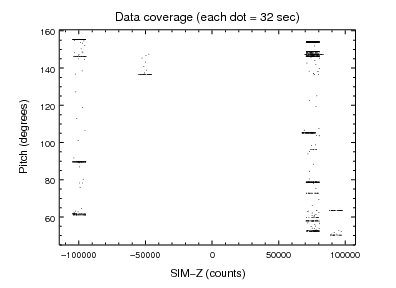
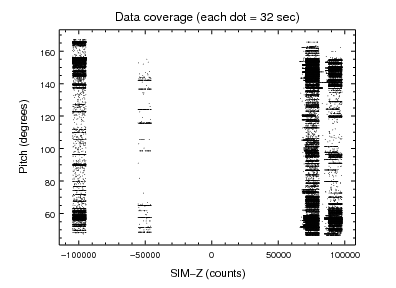
Regenerate calibration plots

diff --git a/predict/psmc_calibrate.py b/predict/psmc_calibrate.py
@@ -182,7 +182,7 @@ def print_model_par():
 
 def save_fit_figures(root, dat1, statevals):
     set_preferences('export.clobber=1')
-    # set_preferences('window.display=false')
+    set_preferences('window.display=false')
     print 'Residuals'
     t0 = time.time()
     add_window(8, 4, 'inches')
@@ -195,7 +195,7 @@ def save_fit_figures(root, dat1, statevals):
     set_plot_title('Fit and residuals (data - model)')
     print time.time()-t0
 
-    #print_window(root + 'fit_resid', ['format', 'png'])
+    print_window(root + 'fit_resid', ['format', 'png'])
     print time.time()-t0
 
     mp = get_model_plot()
@@ -211,7 +211,7 @@ def save_fit_figures(root, dat1, statevals):
     set_plot_title('Fit residual distribution (degC)')
     print time.time()-t0
 
-    #print_window(root + 'fit_resid_hist', ['format', 'png'])
+    print_window(root + 'fit_resid_hist', ['format', 'png'])
     print time.time()-t0
 
     add_window(5.5,4,'inches')
@@ -224,7 +224,7 @@ def save_fit_figures(root, dat1, statevals):
     set_plot_ylabel('Residual (data-model) (degC)')
     set_plot_title('Fit residual vs. temperature')
     t1 = time.time(); print t1-t0
-    # print_window(root + 'fit_resid_vs_temp', ['format', 'png'])
+    print_window(root + 'fit_resid_vs_temp', ['format', 'png'])
     t1 = time.time(); print t1-t0
 
     add_window(5.5,4,'inches')
@@ -238,7 +238,7 @@ def save_fit_figures(root, dat1, statevals):
     set_plot_ylabel('Pitch (degrees)')
     set_plot_title('Data coverage (each dot = 32 sec)')
     t1 = time.time(); print t1-t0
-    # print_window(root + 'fit_pitch_simpos', ['format', 'png'])
+    print_window(root + 'fit_pitch_simpos', ['format', 'png'])
     t1 = time.time(); print t1-t0
 
 def fitall():
@@ -307,6 +307,14 @@ def get_options():
     parser.add_option('--figroot',
                       default='',
                       help="Figure root name")
+    parser.add_option('--fit',
+                      action='store_true',
+                      default=True,
+                      help="Do fitting")
+    parser.add_option('--no-fit',
+                      action='store_false',
+                      dest='fit',
+                      help="Do not do fitting")
     return parser.parse_args()
         
 def main():
@@ -322,7 +330,8 @@ def main():
             thaw(getattr(dea, detector + pitch))
 
     print 'Fitting HRC-S and HRC-I settling temps at', time.ctime()
-    #fit(1,2)
+    if opt.fit:
+        fit(1,2)
     freeze(dea)
     print 'Done at', time.ctime()
 
@@ -342,7 +351,8 @@ def main():
     thaw(dea.c2)
 
     print 'Fitting ACIS-I, ACIS-S and time constants at', time.ctime()
-    #fit(1,2)
+    if opt.fit:
+        fit(1,2)
     freeze(dea)
     print 'Done at', time.ctime()
 
